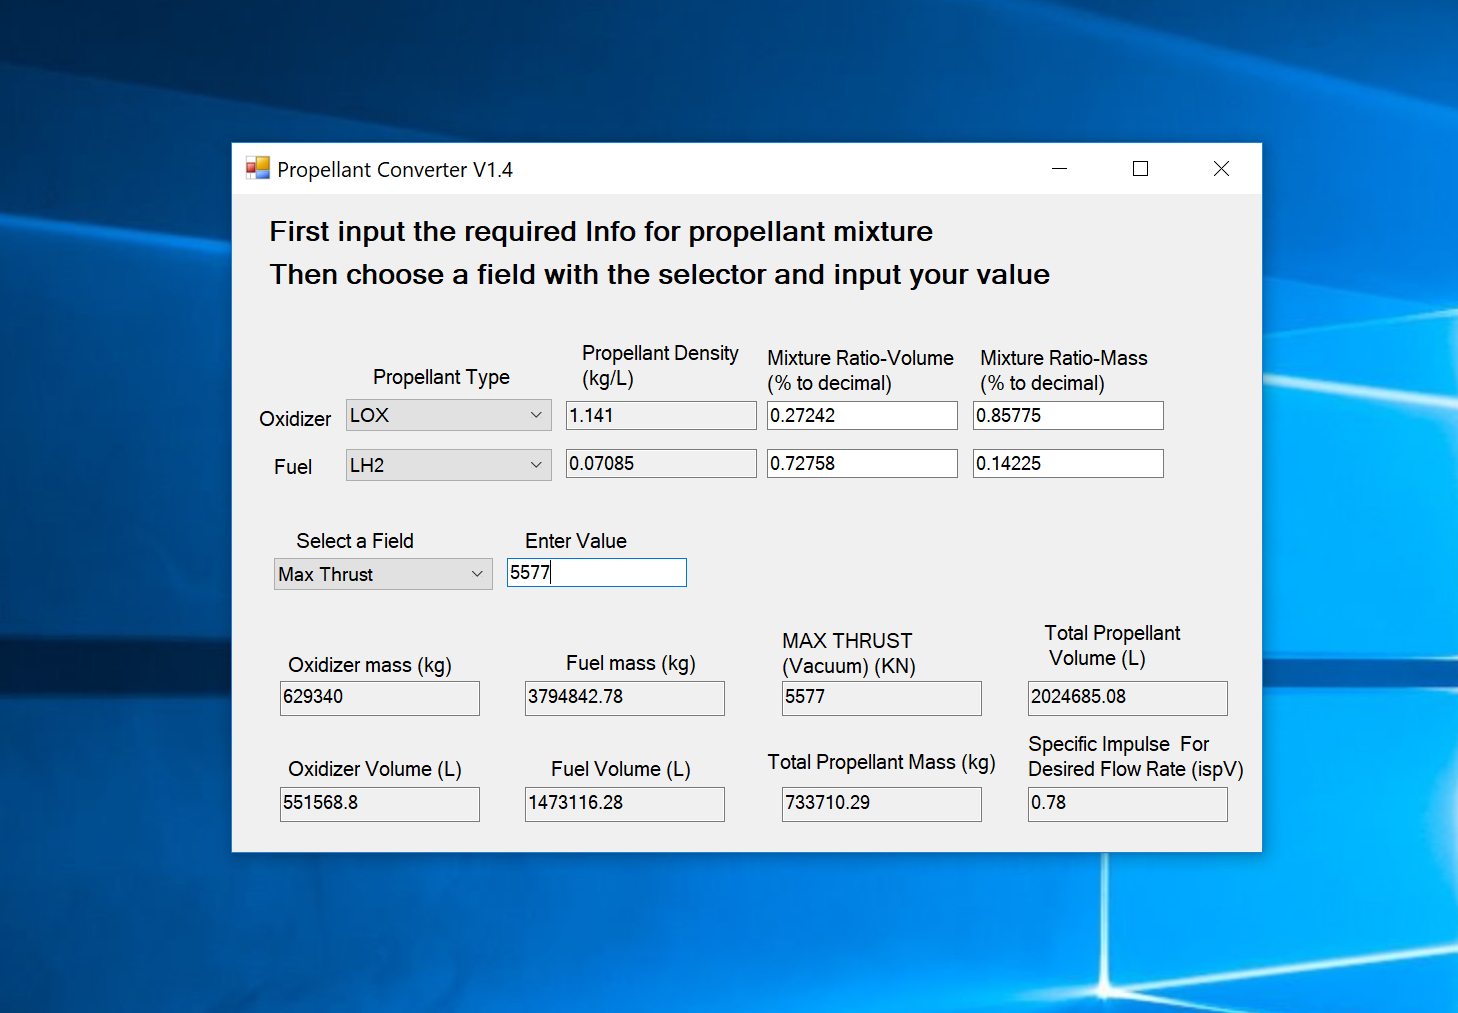
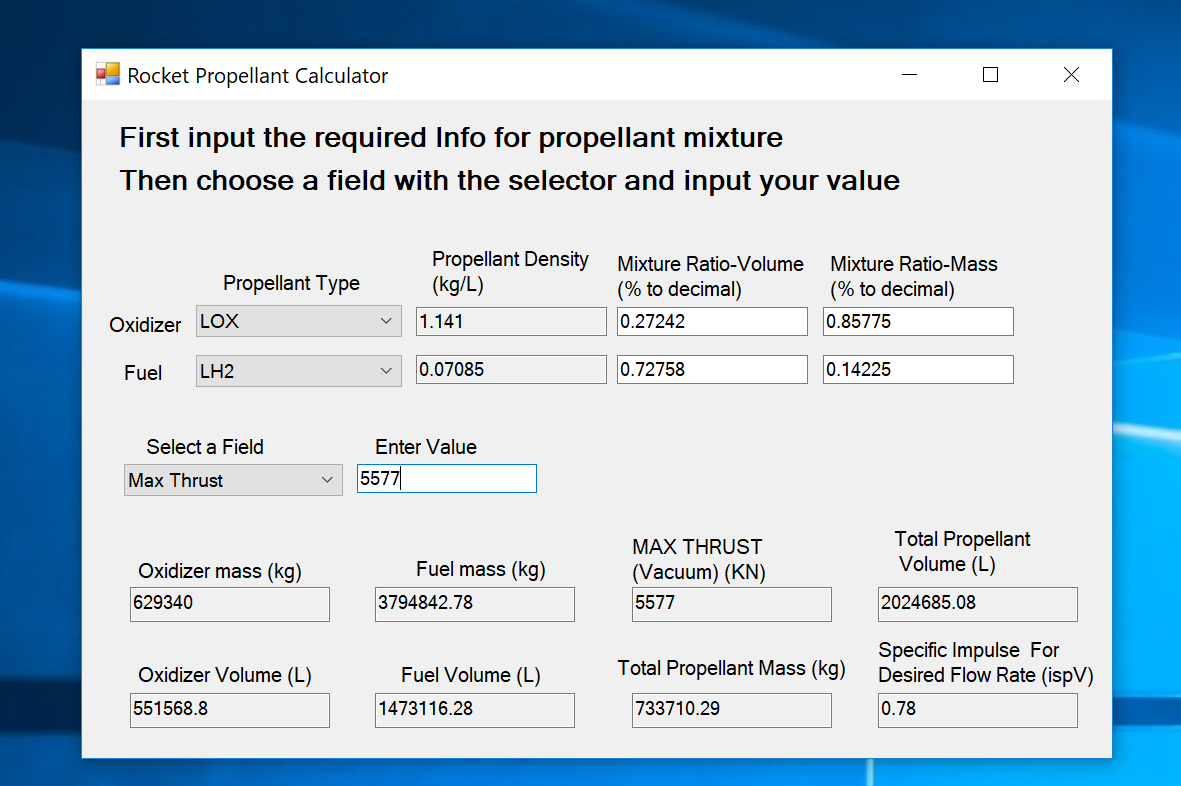
update screenshot

diff --git a/Form1.Designer.cs b/Form1.Designer.cs
@@ -514,7 +514,7 @@
             this.MaximumSize = new System.Drawing.Size(1054, 722);
             this.MinimumSize = new System.Drawing.Size(1054, 722);
             this.Name = "Form1";
-            this.Text = "Propellant Converter V1.4";
+            this.Text = "Rocket Propellant Calculator";
             this.Load += new System.EventHandler(this.Form1_Load);
             this.ResumeLayout(false);
             this.PerformLayout();
